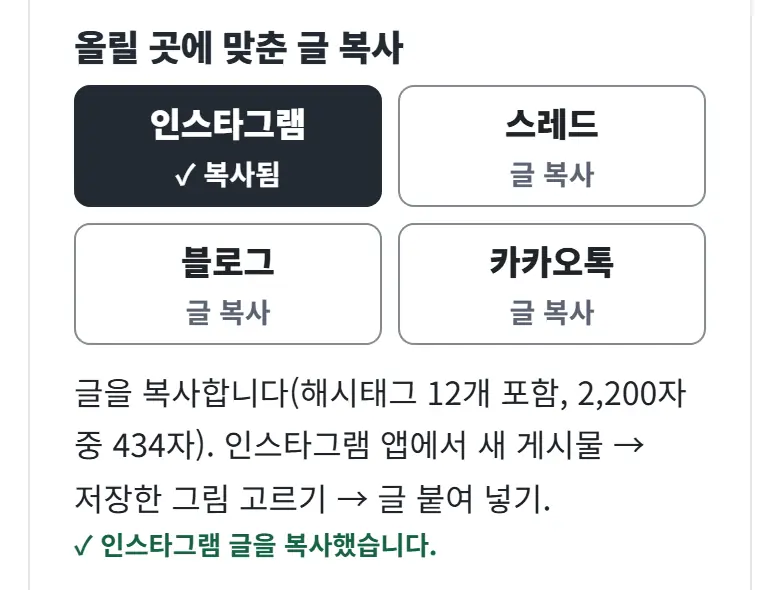
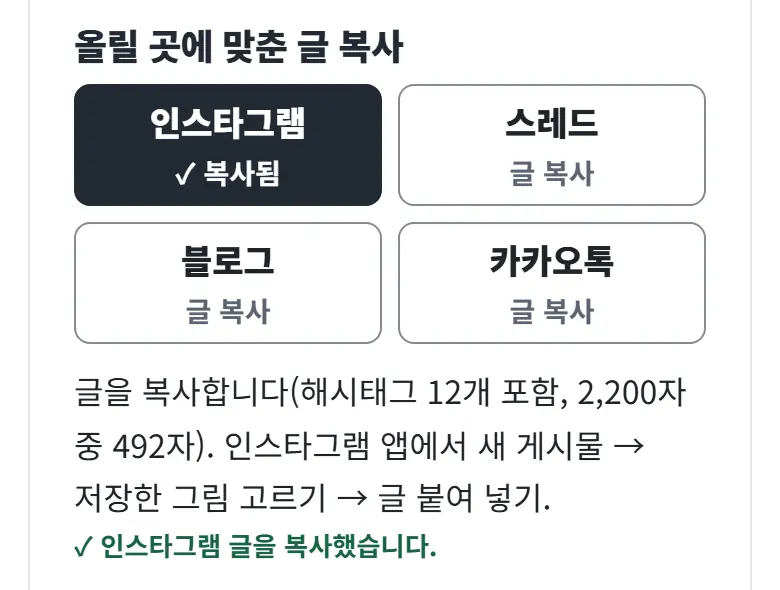
스레드·인스타그램 글 끝에 사무소 한 줄을 붙임
스레드·인스타그램 글 끝에 상호·연락처·등록번호 한 줄이 붙습니다.
- 문제: 출처와 사무소 정보를 그림에만 두자 글만 보는 사람은 어느 사무소 글인지 알 수 없었습니다.
- 고친 것: 사용자가 고른 1안("1")대로 사무소 값에서 상호·연락처·등록번호만 뽑아 두 글 끝에 한 줄로 붙였습니다. 출처와 소재지·대표는 계속 그림에만 있고, 블로그·카카오톡 글은 그대로입니다.
- 스레드 500자: 그 한 줄까지 넣고 잽니다. 어느 줄이기 단계에서도 빠지지 않으며, 대신 단지 이름이 긴 6건은 더 일찍 '그림에 정리' 한 줄로 줄어듭니다.
- 확인: 단위 시험 1272개 통과(딱 500자·501자 경계 포함), 실거래가 화면 시험 41개 통과, 사용 안내 그림 3장 다시 찍음.

diff --git a/docs/work-tools/리더스시티 행복한부동산 중개업무 도구 설계서.md b/docs/work-tools/리더스시티 행복한부동산 중개업무 도구 설계서.md
@@ -3011,12 +3011,13 @@ WHERE p.cancelled = 0 AND (p.dealing_gbn IS NULL OR p.dealing_gbn = 'broker');
   - 목록: 담기 칸을 표 맨 앞 열로 옮기고 체크칸 모양(`span.rt-pick-mark`)으로 바꿨다(1220px 이하 카드는 오른쪽 아래 그대로, 390px 첫째 줄이 꺾이지 않게). 딱지 "분양권"·"신고가"는 단지 이름 칸, 신고가 오름 폭(`small.rt-up`)은 금액 칸에 둔다.
   - 시험: `tests/work-realprice-promo.test.mjs`(장 수·모양·금액 나누기·오름 폭·그림 자료에 출처 없음·글에는 남음), `e2e/admin-realprice.spec.mjs`(체크칸 상태·딱지·▲, 모양 바꾸기·올릴 곳 단추·복사 막힘, 4건 한 장·5건 두 장, 긴 단지 이름이 4모양 모두 그림 밖으로 나가지 않고 "…"로 줄어듦).
 - 스레드 꼬리·그림 출처(2026-11-25, 사용자 요청 15:57:48 "쓰레드에 올려봤는데 아래 그림처럼 설명나오고 표가 들어가면 좋겠어. 그리고 출처랑 명함부분은 한군데만 나오면 되니까 표에만 나오게끔 고쳐줘", '표' = 카드 그림으로 읽음): 위 '글 4가지 틀'·'자동으로 붙는 것'의 스레드 설명과 '새 모양' 그림 자료 줄의 출처 설명을 대신한다.
-  - 올릴 곳마다 글 끝에 붙일 것은 표 `PROMO_TEXT_TAIL`(`source`: 출처·받은 시각·계약일 기준 안내와 흐름 기준 줄, `office`: 사무소 명시사항) 한 곳이다. 지금은 스레드와 인스타그램(2026-11-25 16:42:29 사용자 답 "전부 추천대로")이 둘 다 `false`이고 블로그·카카오톡은 그 전 글 그대로다(글만 따로 읽힐 수 있어서. 그 줄만 `false`로 바꾸면 빠짐). 신고가 판정 기준 줄과 인스타그램 해시태그는 이 표와 상관없이 남는다. 인스타그램 글은 늘 카드 그림과 함께 올린다는 전제다(22.17절).
-  - 스레드 글: 머리 줄 → 빈 줄 → 1건은 자세히, 여러 건은 한 줄씩(신고가가 있으면 빈 줄 + 판정 기준 한 줄). 500자를 넘으면 거래 줄을 짧게('전용'·'계약' 낱말만 빼고 숫자는 그대로, `tightLine`), 그래도 넘으면 거래 줄 대신 "거래 n건(계약일 …)은 그림에 정리했습니다". 가상 6건(신고가 2건) 423자, 20자 단지 이름 6건은 짧은 줄로 월세 482자·신고가 매매 485자.
+  - 올릴 곳마다 글 끝에 붙일 것은 표 `PROMO_TEXT_TAIL`(`source`: 출처·받은 시각·계약일 기준 안내와 흐름 기준 줄, `office`: 사무소 명시사항) 한 곳이다. 지금은 스레드와 인스타그램(2026-11-25 16:42:29 사용자 답 "전부 추천대로")이 `source: false`, `office: "line"`(상호·연락처·등록번호 한 줄 `officeShortLine`, 16:57:36 사용자 "1". 값은 명시사항 칸 `office` 그대로)이고 블로그·카카오톡은 그 전 글 그대로다(글만 따로 읽힐 수 있어서. 그 줄만 `false`로 바꾸면 빠짐). 신고가 판정 기준 줄과 인스타그램 해시태그는 이 표와 상관없이 남는다. 인스타그램 글은 늘 카드 그림과 함께 올린다는 전제다(22.17절).
+  - 스레드 글: 머리 줄 → 빈 줄 → 1건은 자세히, 여러 건은 한 줄씩(신고가가 있으면 빈 줄 + 판정 기준 한 줄). 500자를 넘으면 거래 줄을 짧게('전용'·'계약' 낱말만 빼고 숫자는 그대로, `tightLine`), 그래도 넘으면 거래 줄 대신 "거래 n건(계약일 …)은 그림에 정리했습니다". 가상 6건(신고가 2건) 423자, 20자 단지 이름 6건은 짧은 줄로 월세 482자·신고가 매매 485자(사무소 한 줄을 넣기 전. 넣은 뒤는 아래 '사무소 한 줄' 줄: 6건(신고가 2건) 481자 한 줄씩, 20자 이름 6건은 '그림에 정리'로 월세 149자·신고가 매매 212자).
   - 카드 그림(`promoCards`의 `source`·`basis`): 2026-11-24에 뺐던 출처를 상자 없이 아래 칸 회색 선 위 작은 글(24px, 소재지와 같은 크기, 길면 줄을 나누고 자르지 않음)로 장마다 되돌렸다. 순서는 "출처: 국토교통부 실거래가 공개 자료(공공데이터포털), (받은 시각) 받음." → 계약일 기준·신고 기한(30일)·해제 거래 제외 짧은 안내 → 흐름을 그린 장에만 "흐름 기준: …"이다(출처 줄이 24px 한 줄에 다 들어가지 않아 2줄 + 흐름 기준 1줄). 사무소 명시사항 5항목은 그대로 아래 칸에 있고, 신고가 판정 기준은 그림에 넣지 않는다. 본문이 겹치면 줄이는 규칙(0.8배, `overflow`)은 그대로이고, 1건 흐름선은 남는 자리만큼(최대 240px) 키우므로 작은 글 몫만큼 덜 커진다.
   - 이 줄 때문에 위 '새 모양' 줄의 추가 확인 필요(카드만 따로 보내면 출처가 없음)는 풀렸다.
-  - 인스타그램 글: 자세한 글(신고가가 있으면 판정 기준 한 줄) → 빈 줄 → 해시태그. 가상 3건(신고가 2건) 758 → 472자, 6건(신고가 2건) 951 → 665자(가상 자료, 매매에 흐름 있음).
-  - 시험: `tests/work-realprice-promo.test.mjs`(스레드·인스타그램 글에 출처·명시사항·흐름 기준 없음, 거래 줄 수, 짧은 줄 단계, 판정 기준 줄은 신고가 있을 때만, 표 값을 바꾸면 그 글만 바뀜, 그림 출처 두 줄·흐름 기준은 흐름을 그린 장에만), `e2e/admin-realprice.spec.mjs`(스레드·인스타그램 복사 글에 출처·연락처 없음, 4건 한 장 4모양 그림에 출처·받은 시각·계약일 기준 글이 있고 그림 밖·위아래로 잘린 글자 0).
+  - 사무소 한 줄(2026-11-25 16:57:36 사용자 "1"): 스레드·인스타그램 글 끝에 "(상호) · (연락처) · 등록번호 (번호)" 한 줄(지금 56자)을 둔다. 카카오톡 글의 5항목 한 줄에서 대표·소재지를 뺀 꼴이고 값은 명시사항 칸에서 가져오며, 칸이 비면 글을 만들지 않는 규칙(P1-e)은 그대로다. 스레드는 이 줄을 모든 단계 끝에 붙인 채 500자를 잰다(어느 단계에서도 빠지지 않음). 그래서 6건이 한 줄씩(짧은 줄 포함) 들어가는 단지 이름 길이 한계가 매매 38 → 28자, 여섯 건 모두 신고가 23 → 13자, 긴 월세 22 → 12자로 줄었다(넘으면 '그림에 정리' 한 줄).
+  - 인스타그램 글: 자세한 글(신고가가 있으면 판정 기준 한 줄) → 빈 줄 → 사무소 한 줄 → 빈 줄 → 해시태그. 가상 3건(신고가 2건) 758 → 530자, 6건(신고가 2건) 951 → 723자(가상 자료, 매매에 흐름 있음).
+  - 시험: `tests/work-realprice-promo.test.mjs`(스레드·인스타그램 글에 출처·명시사항 5항목·흐름 기준 없음, 글 끝 사무소 한 줄 한 번, 500자 경계는 그 줄까지 넣고 딱 500자 → 그대로·501자 → 다음 단계, 거래 줄 수, 짧은 줄 단계, 판정 기준 줄은 신고가 있을 때만, 표 값을 바꾸면 그 글만 바뀜, 그림 출처 두 줄·흐름 기준은 흐름을 그린 장에만), `e2e/admin-realprice.spec.mjs`(스레드·인스타그램 복사 글에 출처·소재지 없음, 사무소 한 줄은 있음, 4건 한 장 4모양 그림에 출처·받은 시각·계약일 기준 글이 있고 그림 밖·위아래로 잘린 글자 0).
 
 ### 22.11 AI 블로그 글 초안(P3)
 
@@ -3225,7 +3226,7 @@ D1 구조는 바꾸지 않는다(구조 번호 4 그대로, 마이그레이션·
    - 목록(`/admin/work/realprice/`): 쪽을 그린 뒤 보이는 매매(해제·직거래 뺌) 가운데 아직 받지 않은 ID를 30개씩 묻는다. 휴대폰도 펼치기 전에 묻는다(접힌 줄에 "대비 ▲ n%"를 보이기 때문). 받은 결과는 화면 메모리(Map)에만 두고 같은 ID는 다시 묻지 않는다(브라우저 저장소·URL 없음).
    - 1221px 이상 표: 칸 3개 "흐름(12개월)"(흐름선 72px + 아래 "3개월 n건") · "직전 거래"(금액, '원' 뺌 + 아래 날짜·층) · "최고가 대비"(굵은 % + 아래 "앞선 최고 …만"). 자리를 내려고 거래 종류·표시는 금액 아래, 법정동·준공연도는 단지 이름 아래 작은 줄로 옮긴다. 머리 3개는 칸이 모자랄 때만 두 줄.
    - 1220px 이하 카드: 셋째 줄 아래 접힌 "흐름·직전 거래 · 대비 ▲ n%"(누르는 곳 44px, 담기 체크칸과 같은 높이)를 누르면 흐름선·직전 거래·칸 3개(앞선 최고·최고가 대비·최근 3개월)·기준 글을 펼친다. 줄의 위 3px·아래 8px는 셋째 줄·카드 아래 여백과 겹쳐 390×844 첫 화면의 첫 카드 끝을 794.2px에서 783.2px로 줄였다(아래 탭 787px).
-   - 홍보물(`promo/?ids=`): `trades?ids=` 다음에 담은 매매 ID로 한 번 묻고, 카드 1건·여러 건에 흐름선·직전 거래·최고가 대비를 그린다. 기준 줄은 그 장에 실제로 그린 항목만 적는다(2026-11-24부터 카드 그림에는 그리지 않음 — 여러 건 제목·계약일 범위와 함께 뺌, 사용자 요청 "네모박스에 있는건 안나오게". 잡지 모양 머리 띠는 산호에서 연한 노랑 #FFEFB8로). 흐름을 받지 못한 거래는 지금 모양 그대로 그린다. 글 4가지는 흐름을 받은 뒤 만들고, 그린 흐름이 있을 때만 출처 줄 아래에 같은 기준 줄을 "흐름 기준: …"으로 붙인다(2026-11-25, 22.10절 '자동으로 붙는 것' 줄. 그 전에는 글 4가지를 바꾸지 않았음). 1221px 이상 미리보기 칸(D-3)도 같다. 같은 날 뒤에 바뀜(22.10절 '스레드 꼬리·그림 출처' 줄): 기준 줄은 흐름을 그린 장의 카드 그림 아래 칸 위 작은 글로 다시 그리고, 글에는 출처 줄을 넣는 블로그·카카오톡에만 붙는다. 스레드·인스타그램 글은 출처·흐름 기준·사무소 명시사항을 넣지 않는다(16:42:29 사용자 답 "전부 추천대로"). 두 곳은 늘 카드 그림을 함께 올린다는 전제이고(인스타그램 게시물은 그림 없이 올릴 수 없고, 화면 순서도 '그림 저장 → 글 복사 → 붙여 넣기'), 그림 없이 글만 올리면 출처·명시사항이 빠진다(코드가 막지는 못함).
+   - 홍보물(`promo/?ids=`): `trades?ids=` 다음에 담은 매매 ID로 한 번 묻고, 카드 1건·여러 건에 흐름선·직전 거래·최고가 대비를 그린다. 기준 줄은 그 장에 실제로 그린 항목만 적는다(2026-11-24부터 카드 그림에는 그리지 않음 — 여러 건 제목·계약일 범위와 함께 뺌, 사용자 요청 "네모박스에 있는건 안나오게". 잡지 모양 머리 띠는 산호에서 연한 노랑 #FFEFB8로). 흐름을 받지 못한 거래는 지금 모양 그대로 그린다. 글 4가지는 흐름을 받은 뒤 만들고, 그린 흐름이 있을 때만 출처 줄 아래에 같은 기준 줄을 "흐름 기준: …"으로 붙인다(2026-11-25, 22.10절 '자동으로 붙는 것' 줄. 그 전에는 글 4가지를 바꾸지 않았음). 1221px 이상 미리보기 칸(D-3)도 같다. 같은 날 뒤에 바뀜(22.10절 '스레드 꼬리·그림 출처' 줄): 기준 줄은 흐름을 그린 장의 카드 그림 아래 칸 위 작은 글로 다시 그리고, 글에는 출처 줄을 넣는 블로그·카카오톡에만 붙는다. 스레드·인스타그램 글은 출처·흐름 기준·사무소 명시사항 5항목을 넣지 않고 글 끝에 상호·연락처·등록번호 한 줄만 둔다(16:42:29 사용자 답 "전부 추천대로", 16:57:36 "1"). 두 곳은 늘 카드 그림을 함께 올린다는 전제이고(인스타그램 게시물은 그림 없이 올릴 수 없고, 화면 순서도 '그림 저장 → 글 복사 → 붙여 넣기'), 그림 없이 글만 올리면 출처·소재지·대표가 빠진다(코드가 막지는 못함).
    - 자료가 모자랄 때: 빈 달은 점 없이 건너뛰고 있는 달끼리 잇는다(0으로 떨어뜨리지 않음). 거래 있는 달이 1개면 선을 그리지 않고 표는 "한 달만 거래", 펼침은 "흐름선은 거래가 있는 달이 두 달 이상일 때 그립니다"를 쓴다. 직전 거래가 없으면 표는 "직전 거래 없음", 펼침은 "직전 거래 없음(2006년 1월 이후)", 홍보물은 그 줄을 뺀다. 앞선 최고가 없으면 '앞선 최고'·'최고가 대비'에 "첫 거래"를 쓴다(빈칸·0 금지).
    - 결과를 못 받을 때: 표 칸은 회색 작은 글자 "흐름: 오늘 조회 한도"·"흐름: 과거 자료 채우는 중"·"흐름: 불러오지 못함"과 화면 읽기용 글. 카드는 '흐름·직전 거래' 줄을 두지 않고 까닭을 목록 위 한 줄로 알린다: 한도 → "오늘 조회가 많아 흐름·직전 거래 표시를 잠시 껐습니다…", 불러오지 못함 → "흐름·직전 거래를 불러오지 못했습니다. 목록은 그대로 볼 수 있습니다. 잠시 뒤 화면을 새로 고치면 다시 불러옵니다.", 판정 준비 전 → 기존 신고가 준비 안내 끝에 "흐름·직전 거래도 그때 함께 보입니다."(979px 이하는 '자세히' 안). 끝 상한 429도 한도 글과 같다.
    - 디자인 기준은 `DESIGN.md` '실거래가 거래 흐름', 도움말은 `src/lib/admin-help.mjs`의 실거래가 상자·표 4줄·'신고가 표시가 안 보일 때'·홍보물 상자.

diff --git a/docs/work-tools/리더스시티 행복한부동산 중개업무 도구 테스트 체크리스트.md b/docs/work-tools/리더스시티 행복한부동산 중개업무 도구 테스트 체크리스트.md
@@ -1066,7 +1066,7 @@
 |---|---|---|---|---|
 | TK-36 [화면] | 실거래가·실거래가 설정 화면을 360·768·1220·1221·1280px에서 가짜 API로 | 가로 넘침 0, 1220px 이하 세 줄 카드·1221px 이상 표, "신고가"·"해제"·"새로 들어옴"이 글자로 보임, 상태 화면 6가지, 키보드로 거르기·보기 바꾸기·30건 더 보기·관심 단지 찾기·넣기·빼기·지금 다시 받기 가능(목록 고르기·홍보물 만들기는 P1-e에서 같은 방법으로), 콘솔 오류 0. P1-f D안(2026-11-20): 휴대폰·PC 같은 순서, 상태 한 줄은 문제 있을 때만 펼침, 390×844에서 첫 거래 위쪽이 631px 이하(매매 채우는 중에도 첫 거래가 아래 탭 위에 다 보임), 거르기 단추 6개·찾기·다 담기·담기 단추가 44px 이상(마우스를 쓰는 1221px 이상 PC는 36px 이상, 2026-11-23), 찾기는 '찾기'·Enter일 때만(한글 조합 중 Enter 무시, 비우면 다시 전체), "주요 거래"는 `view=major` 한 번이고 기간·분양권만·종류·해제·직거래가 잠김, "신고가만"은 `limit=100`, 켜짐 줄·"모두 끄기", 0건이면 까닭과 바로 할 일 단추 | 검토·시험(Playwright) | 통과(PR #78 TR-11(2026-11-20 날개-2): 가짜 API로 두 화면 360·768·979·980·1220·1221·1280px 가로 넘침 0, 1220px 카드·1221px 표, '신고가'·'해제'·'새로 들어옴'·'직거래' 글자, 상태 화면(꺼짐·설정 누락·받기 전·처음 채우는 중·받기 멈춤·0건·불러오는 중·끝 상한 오류), 키보드로 거르기·보기 바꾸기·30건 더 보기·단지 찾기·넣기·빼기·지금 다시 받기, 콘솔 오류 0. PR #80 TR-11(2026-11-20 날개-2): 목록 고르기·홍보물 만들기 키보드(Space로 6건 → 막대 링크 Enter → 홍보물 화면 → 내려받기·라디오 화살표·글 칸·복사·인쇄), 고르기 막대가 보일 때 Tab 250번 포커스 가림 0(목록 360 ~ 1440px 10폭 + 홍보물 390·1280px, 부드러운 스크롤·움직임 줄이기). PR #81 TR-11(2026-11-20 날개-2): D안 390×844 첫 거래 위쪽 627px(기준 631 이하, 아래 탭 위에 다 보임), 거르기 단추 6개·찾기·다 담기·담기 44px 이상, 찾기 '찾기'·Enter만(한글 조합 중 Enter 무시), 주요 거래 `view=major` 한 번, 신고가만 `limit=100`, 모두 끄기, 0건 안내 단추, 콘솔 오류 0은 E2E 43 passed, 담기 막대가 보일 때 Tab 220번 가림 0(360 ~ 1440px 10폭 × 부드러운 스크롤·움직임 줄이기)) 2026-11-23 D-1 사본 시험 2026-11-23, 날개-2, 바탕 master 50c09c0: 1280px 확인을 36px 기준으로 바꾼 같은 E2E 통과(전체 E2E 188/188), 360 ~ 390px의 44px 확인은 그대로 |
 | TK-37 [화면] | 관리자 아래 단계 메뉴 | "실거래가"(P3 뒤 "글 초안")가 더해짐, 알약 줄(2026-11-23 전 이름은 작은 탭)이 넘치면 가로로 밀림(980px 이상도 같음), 탭 미리 그리기 prerender 목록에 단계 P 화면 없음(prefetch만), 업무 도구 첫 화면의 도구 3개 그대로 | 검토·시험(Playwright) | 통과(PR #78 TR-11(2026-11-20 날개-2): 업무 도구 아래 단계 다섯째에 '실거래가'가 더해짐(설정 화면에서는 지금 구역 `aria-current="true"`), 360px에서 작은 탭이 넘쳐 가로로 밀리고 처음 열 때 지금 탭이 오른쪽 16px 여백을 두고 보임(320 ~ 430px), prerender 규칙에 두 화면이 안 걸림(prefetch만, 시험 고정), 업무 도구 첫 화면 도구 3개 그대로, 관리 15화면 HTML 대조에서 기존 화면의 지금 표시 변화 0) 2026-11-23 D-1 사본 시험 2026-11-23, 날개-2, 바탕 master 50c09c0: 1280px에서 업무 도구 알약 11개가 한 줄에 다 들어가지 않아 마지막 '매물 안내지'가 지금 화면일 때 줄을 옮겨 두는지 `e2e/admin-listing-paper.spec.mjs` "PC 위 알약 줄 1280px"가 봄(통과). 폭마다 잰 값은 TU-15·TU-22 |
-| TK-38 | 홍보물 글 4가지(가상 거래 3건) | 출처·자료를 받은 시각·계약일 기준·신고 기한 안내·해제 제외 안내·사무소 명시사항 5항목이 붙음, 동 번호 0, 층 숫자 그대로, 금액이 자료와 같음. 해제된 거래는 고를 수 없음. 신고가가 있으면 판정 기준(2006년 1월 이후 매매와 비교)이 붙고, `recordHigh`가 null이면 "신고가" 말이 없음. 고른 뒤 해제된 거래·찾지 못한 거래는 빼고 건수를 알림. 명시사항이 비거나 받은 시각을 모르면 만들지 않음. 2026-11-25 보탬: 카드에 흐름을 그린 매매가 있을 때만 출처 줄 아래 "흐름 기준: …" 한 줄(그린 항목만, 카드 자료 `basis`와 같은 글), 흐름을 못 받았거나 전월세만이면 줄 없음, 스레드는 넣어서 500자를 넘으면 빼고 지금 글 그대로(결과 칸은 보탬 전 검토). 2026-11-25 두 번째 보탬(스레드 꼬리, 사용자 요청 15:57:48): 스레드 글은 머리 줄·빈 줄·거래 한 줄씩(신고가가 있으면 판정 기준 한 줄)뿐이고 출처·받은 시각·안내·흐름 기준·사무소 명시사항이 없음(`PROMO_TEXT_TAIL`), 500자를 넘으면 거래 줄을 짧게('전용'·'계약'만 뺌) → 그래도 넘으면 '그림에 정리' 한 줄, 20자 단지 이름 6건도 한 줄씩 500자 안. 인스타그램 글도 출처·받은 시각·안내·흐름 기준·사무소 명시사항이 없고 거래 글·판정 기준 한 줄(신고가가 있을 때)·해시태그만(16:42:29 사용자 답), 블로그·카카오톡 글은 그 전과 같음(결과 칸은 보탬 전 검토). 스레드 500자 안(`tests/work-realprice-promo.test.mjs`, `trades?ids=`는 `tests/work-realprice-query.test.mjs`. P1-f의 `q`·`view=major`와 `q`·`view` 없는 요청의 응답이 바꾸기 전과 같음도 같은 파일) | 검토·시험(자동) | 통과(PR #80 TR-11(2026-11-20 날개-2): 자동 시험 `tests/work-realprice-promo.test.mjs`·`work-realprice-query.test.mjs` 통과(`npm test` 499/499), 날개-2가 따로 만든 최악 자료(단지명 25자 이상, 동 번호·지번 칸에 표식 글자, 6·1·3건) 88가지 NG 0 — 글 4가지에 표식 0, 명시사항 5항목·출처·받은 시각·계약일 기준·신고 기한·해제 안내가 붙음, 신고가면 2006년 1월 기준 문구, `recordHigh` null이면 '신고가' 0, 명시사항 빈 칸·받은 시각 없음이면 만들지 않음, 스레드 363 / 500자. `trades?ids=` 7가지(형식·7개·두 번 → 400, 목록 매개변수와 섞으면 400, 해제·못 찾음), `ids` 없는 응답은 바탕 코드와 같음. PR #81 TR-11(2026-11-20 날개-2): `q`·`view` 없는 요청 13가지 응답이 바탕 코드(38821da)와 같음, `view=major`에 목록 매개변수(`to` 포함)가 같이 오면 400, 특수문자 `q` 9가지 200) |
+| TK-38 | 홍보물 글 4가지(가상 거래 3건) | 출처·자료를 받은 시각·계약일 기준·신고 기한 안내·해제 제외 안내·사무소 명시사항 5항목이 붙음, 동 번호 0, 층 숫자 그대로, 금액이 자료와 같음. 해제된 거래는 고를 수 없음. 신고가가 있으면 판정 기준(2006년 1월 이후 매매와 비교)이 붙고, `recordHigh`가 null이면 "신고가" 말이 없음. 고른 뒤 해제된 거래·찾지 못한 거래는 빼고 건수를 알림. 명시사항이 비거나 받은 시각을 모르면 만들지 않음. 2026-11-25 보탬: 카드에 흐름을 그린 매매가 있을 때만 출처 줄 아래 "흐름 기준: …" 한 줄(그린 항목만, 카드 자료 `basis`와 같은 글), 흐름을 못 받았거나 전월세만이면 줄 없음, 스레드는 넣어서 500자를 넘으면 빼고 지금 글 그대로(결과 칸은 보탬 전 검토). 2026-11-25 두 번째 보탬(스레드 꼬리, 사용자 요청 15:57:48): 스레드 글은 머리 줄·빈 줄·거래 한 줄씩(신고가가 있으면 판정 기준 한 줄)뿐이고 출처·받은 시각·안내·흐름 기준·사무소 명시사항이 없음(`PROMO_TEXT_TAIL`), 500자를 넘으면 거래 줄을 짧게('전용'·'계약'만 뺌) → 그래도 넘으면 '그림에 정리' 한 줄, 20자 단지 이름 6건도 한 줄씩 500자 안. 인스타그램 글도 출처·받은 시각·안내·흐름 기준·사무소 명시사항 5항목이 없고 거래 글·판정 기준 한 줄(신고가가 있을 때)·해시태그만(16:42:29 사용자 답). 스레드·인스타그램 글 끝에는 상호·연락처·등록번호 한 줄이 한 번 있고(16:57:36 사용자 "1", 스레드는 그 줄까지 넣고 500자를 재며 어느 단계에서도 빠지지 않음, 딱 500자 → 그대로·501자 → 다음 단계), 블로그·카카오톡 글은 그 전과 같음(결과 칸은 보탬 전 검토). 스레드 500자 안(`tests/work-realprice-promo.test.mjs`, `trades?ids=`는 `tests/work-realprice-query.test.mjs`. P1-f의 `q`·`view=major`와 `q`·`view` 없는 요청의 응답이 바꾸기 전과 같음도 같은 파일) | 검토·시험(자동) | 통과(PR #80 TR-11(2026-11-20 날개-2): 자동 시험 `tests/work-realprice-promo.test.mjs`·`work-realprice-query.test.mjs` 통과(`npm test` 499/499), 날개-2가 따로 만든 최악 자료(단지명 25자 이상, 동 번호·지번 칸에 표식 글자, 6·1·3건) 88가지 NG 0 — 글 4가지에 표식 0, 명시사항 5항목·출처·받은 시각·계약일 기준·신고 기한·해제 안내가 붙음, 신고가면 2006년 1월 기준 문구, `recordHigh` null이면 '신고가' 0, 명시사항 빈 칸·받은 시각 없음이면 만들지 않음, 스레드 363 / 500자. `trades?ids=` 7가지(형식·7개·두 번 → 400, 목록 매개변수와 섞으면 400, 해제·못 찾음), `ids` 없는 응답은 바탕 코드와 같음. PR #81 TR-11(2026-11-20 날개-2): `q`·`view` 없는 요청 13가지 응답이 바탕 코드(38821da)와 같음, `view=major`에 목록 매개변수(`to` 포함)가 같이 오면 400, 특수문자 `q` 9가지 200) |
 | TK-39 [화면] | 카드 그림 내려받기 | 1080×1350 PNG, 파일 이름 `realprice-YYYYMMDD.png`(두 장이면 `-1`·`-2`), 운영 CSP를 붙인 화면에서 CSP 위반 0, 그림 안 글자가 글 4가지와 같은 숫자(그림과 글이 같은 순수 함수 값을 씀). 목록 고르기는 최대 6건·해제 막음·키보드 Space, 360·768·1280px 가로 넘침 0. P1-f(2026-11-20): 목록은 '담기' 단추(✓ 담음·담을 수 없음), '위에서 6건 담기'는 해제를 건너뛰고 남은 자리만큼 담음. 홍보물 화면은 담은 거래 요약 → "어디에 올릴까요?"(인스타그램이 처음) → ① 그림 저장 ② (곳) 글 복사 ③ 붙여 넣기 순서 글이 올릴 곳에 맞춰 바뀌고, 누른 단추에 ✓ 표시가 남음. 인스타그램 해시태그 12개 안(고정·법정동·단지 이름 포함). 2026-11-25 보탬(그림 출처): 카드 아래 칸 회색 선 위 24px 작은 글로 출처·받은 시각, 계약일 기준·신고 기한·해제 제외 안내, 흐름을 그린 장에만 흐름 기준 줄이 있고 4모양 모두 그림 밖·위아래로 잘린 글자 0(결과 칸은 보탬 전 검토) | 검토·시험(Playwright) | 통과(PR #80 TR-11(2026-11-20 날개-2): 카드 2장 1080×1350, 파일 `realprice-20261120-1.png`·`-2.png`, 운영 CSP를 붙인 화면에서 위반 0, 360·390·430·768·979·980·1024·1280px 가로 넘침 0·콘솔 오류 0, 목록 고르기 해제 잠김·6건 뒤 나머지 잠김·키보드 Space. PR #81 TR-11(2026-11-20 날개-2): '담기'(✓ 담음)·'위에서 6건 담기'(해제 건너뜀)·누른 단추 ✓는 E2E, 올릴 곳 4개(인스타그램이 처음) → ② 복사 글 → ③ 붙여 넣기 글이 곳마다 바뀜(390px), 동 번호 표식 0. 해시태그 12개 안: PR #82(2026-11-20, 단위·E2E CI 통과) 뒤 master f7dc990 코드로 날개-2가 1 ~ 6건을 따로 세어 9·12·12·12·12·12개, 단지 이름 최대 3개 남음) |
 | TK-40 [수동] | A4 인쇄 미리보기·PDF로 저장 | 한 장, 메뉴·단추 없음, 글자 잘림 없음(자동 보조: E2E가 인쇄 미디어에서 메뉴·단추 숨김과 PDF 1쪽을 확인, 실제 인쇄 창은 사람이 확인) | 검토·시험 | 미실행(자동 보조 통과, PR #80 TR-11(2026-11-20 날개-2): 인쇄 미디어에서 보이는 단추·링크·메뉴 0, PDF 1쪽(카드 1장·2장 모두). 실제 인쇄 미리보기 창은 사람이 확인) |
 

diff --git a/DESIGN.md b/DESIGN.md
@@ -359,7 +359,7 @@ components:
 
 - 목록 담기(2026-11-24): 글자 없는 체크칸. 누르는 곳은 44px 칸 전체(진짜 체크 칸을 투명하게 덮음), 보이는 것은 26px 네모(1221px 이상 + 마우스는 36px 칸·22px 네모). 담으면 남색 바탕 흰 ✓, 해제 거래·다 찬 뒤 나머지는 옅은 회색 네모로 잠근다. 담은 줄은 옅은 남색 바탕. 1221px 이상 표는 맨 앞 열 "담기", 1220px 이하 카드는 오른쪽 아래(넷째 줄 '흐름·직전 거래' 끝). 시안처럼 카드 왼쪽에 두면 줄마다 48px이 줄어 390px에서 첫째 줄(단지 이름·딱지·전용면적)이 꺾여 첫 카드가 아래 탭에 가리므로 오른쪽 아래에 둔다. 딱지는 단지 이름 옆("▲ 신고가" 남색, "분양권" 옅은 남색 바탕 남색 글자), 신고가 거래는 금액 옆(표는 금액 아래)에 빨간 굵은 "▲ 300만"(앞선 최고보다 오른 금액, 화면 읽기는 "앞선 최고보다"를 덧붙임). 하나라도 담으면 목록 아래에 남색 윗선 막대("담은 거래 n건" · 검정 주 단추 "홍보물 만들기" · "비우기")가 붙는다. 979px 이하는 막대를 한 줄로 아래 탭 위에 둔다.
 - 카드 그림(1080×1350, 4:5): 모양 4가지 — 기본(흰 종이, 남색 칩·줄, 처음 모양), 깔끔 카드(#EEF1F4 바탕에 흰 둥근 판), 잡지(머리 띠 연한 노랑 #FFEFB8, 칩 검정. 2026-11-24 전에는 산호 #F06951), 다크(남색 바탕, 금액 #FFB49F). 위 칸은 "대전 동구 아파트 실거래가" 칩(받은 시각은 위 칸에 넣지 않고 아래 칸 위 작은 글에)과, 1건일 때만 제목("가상숲1단지 매매 신고가", 단지 이름이 제목에만 있음). 여러 건 제목("실거래 n건 · n/m장")·계약일 범위는 그리지 않는다(2026-11-24 사용자 요청. 흐름선 기준 줄은 2026-11-25부터 아래 칸 위 작은 글로 그림). 1건은 딱지·설명 → 큰 금액(100px 숫자 + 작은 단위) + 오른쪽 "▲ 오름 폭" → "○ 직전 거래" → 큰 흐름선(앞선 최고 점선, 남는 자리만큼 최대 240px 더 키움) → 칸 3개(앞선 최고·최고가 대비·최근 3개월). 여러 건은 줄마다 단지 이름 + 딱지, 오른쪽 금액(숫자 + 작은 단위) → 지역·종류·전용면적·층·계약일 + "▲ 오름 폭" → 회색 흐름 줄(흐름선 150px + 직전·대비·3개월 글). 신고가는 "▲ 신고가" 빨강(#B3261E, 다크는 #FF8A73), 분양권은 옅은 남색 딱지. 긴 단지 이름은 85%까지 줄인 뒤 끝을 "…"로 줄인다.
-- 카드 아래 칸(줄이지 않음): 회색 선 → 로고에서 자른 집 모양(다크는 흰 둥근 판 위) + 상호 42px 굵게, "대표 · 등록번호" 25px, 오른쪽 연락처 40px 굵게, 소재지 24px. 회색 선 위에는 작은 글(24px, 옅은 글자색, 길면 줄을 나눔)로 "출처: 국토교통부 실거래가 공개 자료(공공데이터포털), (받은 시각) 받음." → 계약일 기준·신고 기한·해제 제외 짧은 안내 → 흐름을 그린 장에만 "흐름 기준: …"을 둔다(2026-11-25 사용자 요청 "출처랑 명함부분은 한군데만 나오면 되니까 표에만 나오게끔". 상자는 두지 않음, 스레드·인스타그램 글에서는 출처·명시사항을 뺌 — 인스타그램은 16:42:29 답 "전부 추천대로", 두 곳은 늘 그림을 함께 올린다는 전제). 신고가 판정 기준은 그림에서 빼고 글 4가지에만 둔다. 받은 시각을 모르거나 명시사항 5항목이 비면 만들지 않는다(그대로). 동 번호는 넣지 않는다.
+- 카드 아래 칸(줄이지 않음): 회색 선 → 로고에서 자른 집 모양(다크는 흰 둥근 판 위) + 상호 42px 굵게, "대표 · 등록번호" 25px, 오른쪽 연락처 40px 굵게, 소재지 24px. 회색 선 위에는 작은 글(24px, 옅은 글자색, 길면 줄을 나눔)로 "출처: 국토교통부 실거래가 공개 자료(공공데이터포털), (받은 시각) 받음." → 계약일 기준·신고 기한·해제 제외 짧은 안내 → 흐름을 그린 장에만 "흐름 기준: …"을 둔다(2026-11-25 사용자 요청 "출처랑 명함부분은 한군데만 나오면 되니까 표에만 나오게끔". 상자는 두지 않음, 스레드·인스타그램 글에서는 출처·명시사항 5항목을 빼고 상호·연락처·등록번호 한 줄만 둠 — 인스타그램은 16:42:29 답 "전부 추천대로", 한 줄은 16:57:36 "1", 두 곳은 늘 그림을 함께 올린다는 전제). 신고가 판정 기준은 그림에서 빼고 글 4가지에만 둔다. 받은 시각을 모르거나 명시사항 5항목이 비면 만들지 않는다(그대로). 동 번호는 넣지 않는다.
 - 4건까지 한 장, 5건은 3 + 2, 6건은 3 + 3(담기 최대 6건 그대로). 여러 건은 아래 칸 위에 자리가 남으면 거래 줄을 1.45배까지 키우고(회색 흐름 줄 글자는 키우지 않고, 키운 배율이 1배보다 글을 더 자르면 쓰지 않음), 겹치면 본문만 5%씩 80%까지 줄인다.
 - 홍보물 화면(2026-11-24 새 모양): 위 2px 남색 선의 담은 거래 요약(단지 · 종류 / 금액, 밑줄 "← 거래 다시 고르기") → "카드 모양" 띠(회색 바탕 4칸 기본·깔끔 카드·잡지·다크, 44px, 고른 칸 남색 바탕) → 카드 그림(펼쳐 보임) → 크기 설명 → "그림 저장"(두 장이면 "1장 저장"·"2장 저장", 52px 주 단추, 누르면 남색 테두리 흰 바탕 "✓ … 저장함") → "올릴 곳에 맞춘 글 복사" 단추 4개(인스타그램·스레드·블로그·카카오톡, 979px 이하 2×2·760px 이상 4칸, 56px, 이름 굵게 + 아래 작은 "글 복사", 누른 단추만 남색 바탕 "✓ 복사됨") → 그 아래 한 줄(글자 수·해시태그 수 + 그 앱에서 할 일) → 접힌 "글 미리 보기"(마지막으로 누른 곳 글) → 맨 아래 "종이로 뽑기(A4)". 모양을 바꾸면 서버를 부르지 않고 다시 그리며 저장·복사 표시는 지운다. 고른 모양은 화면 메모리에만 두고 브라우저 저장소에 넣지 않는다(화면을 떠나면 기본). 자동 복사가 막히면 글 미리 보기를 펼쳐 글을 골라 둔다. 목록 오른쪽 미리보기 칸(1221px 이상)도 같은 모양 띠(마우스 PC 36px)·올릴 곳 단추 4개(늘 2×2, 마우스 PC 48px)를 쓴다. 인쇄는 카드 그림만 A4 세로 한 장(1장 150mm, 2장 88mm씩 나란히).
 

diff --git a/docs/리더스시티 행복한부동산 관리자시스템 개발 진행 체크리스트.md b/docs/리더스시티 행복한부동산 관리자시스템 개발 진행 체크리스트.md
@@ -33,7 +33,7 @@
 
 ## 2026-11-24 실거래가 홍보물 새 모양
 
-- [x] 홍보물 카드: 모양 4가지(기본·깔끔 카드·잡지·다크, 처음 기본), 4건까지 한 장(5건 3 + 2, 6건 3 + 3, 담기 최대 6건 그대로), 비율 4:5, 딱지 "▲ 신고가", 신고가 오름 폭 "▲ 300만", 출처 상자·받은 시각 뺌(글 4가지에는 남김, 받은 시각을 모르면 안 만드는 규칙 그대로, 받은 시각은 11:41:13 "이것도 뺌"), 상호 크게·명시사항 5항목, 흐름 줄 그대로 — 사용자 답 2026-11-24 10:24:08 "화면 배치까지"·출처 상자 "완전히 뺌"·"상호를 크게"·흐름 줄 "지금 그대로", 10:46:13 처음 모양 "기본 (추천)"·"4곳까지 1장 (추천)"(비율은 지금처럼 4:5)·딱지 "▲ 신고가 (추천)". 2026-11-25 사용자 요청(15:57:48 "출처랑 명함부분은 한군데만 나오면 되니까 표에만 나오게끔")으로 출처·받은 시각·계약일 기준 안내·흐름 기준은 카드 아래 칸 위 작은 글로 되돌리고, 스레드 글에서는 출처·흐름 기준·사무소 명시사항을 뺌. 인스타그램 글도 같이 뺌(16:42:29 사용자 답 "전부 추천대로", 늘 그림을 함께 올린다는 전제, 판정 기준 한 줄·해시태그는 남김). 블로그·카카오톡 글은 그대로.
+- [x] 홍보물 카드: 모양 4가지(기본·깔끔 카드·잡지·다크, 처음 기본), 4건까지 한 장(5건 3 + 2, 6건 3 + 3, 담기 최대 6건 그대로), 비율 4:5, 딱지 "▲ 신고가", 신고가 오름 폭 "▲ 300만", 출처 상자·받은 시각 뺌(글 4가지에는 남김, 받은 시각을 모르면 안 만드는 규칙 그대로, 받은 시각은 11:41:13 "이것도 뺌"), 상호 크게·명시사항 5항목, 흐름 줄 그대로 — 사용자 답 2026-11-24 10:24:08 "화면 배치까지"·출처 상자 "완전히 뺌"·"상호를 크게"·흐름 줄 "지금 그대로", 10:46:13 처음 모양 "기본 (추천)"·"4곳까지 1장 (추천)"(비율은 지금처럼 4:5)·딱지 "▲ 신고가 (추천)". 2026-11-25 사용자 요청(15:57:48 "출처랑 명함부분은 한군데만 나오면 되니까 표에만 나오게끔")으로 출처·받은 시각·계약일 기준 안내·흐름 기준은 카드 아래 칸 위 작은 글로 되돌리고, 스레드 글에서는 출처·흐름 기준·사무소 명시사항을 뺌. 인스타그램 글도 같이 뺌(16:42:29 사용자 답 "전부 추천대로", 늘 그림을 함께 올린다는 전제, 판정 기준 한 줄·해시태그는 남김). 두 글 끝에는 상호·연락처·등록번호 한 줄을 둠(16:57:36 사용자 "1"). 블로그·카카오톡 글은 그대로.
 - [x] 홍보물 화면·목록 오른쪽 미리보기 칸: "카드 모양" 띠와 올릴 곳 단추 4개(누르면 그곳 글 복사, "✓ 복사됨"). 목록은 담기를 체크칸으로(표 맨 앞, 휴대폰 카드 오른쪽 아래), 딱지는 단지 이름 옆.
 - [ ] Android Chrome·iPhone Safari 실기기에서 체크칸 담기 → 모양 바꾸기 → 그림 저장 → 올릴 곳 단추 복사 확인(실기기 미확인).
 
